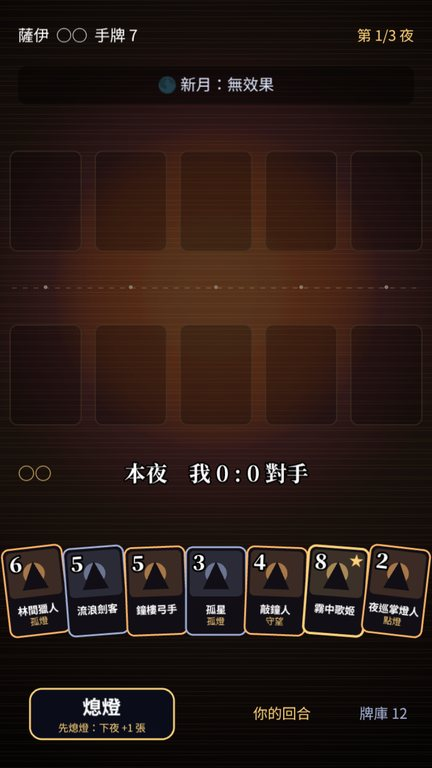
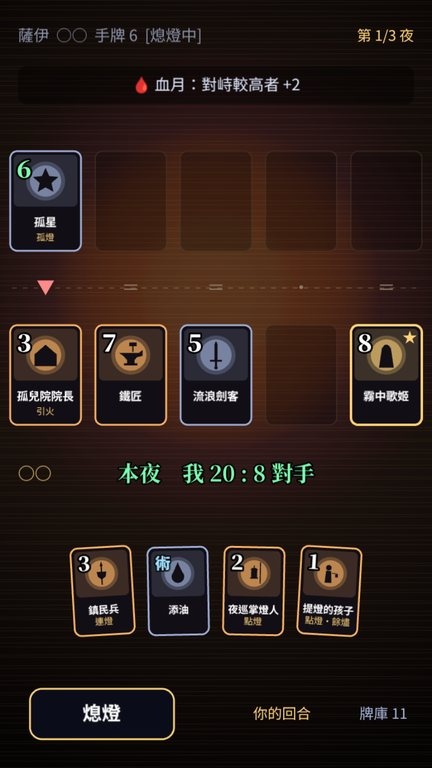
docs(readme): 燼牌截圖換成對局中段（新紋章）
Claude-Session: https://claude.ai/code/session_01CdVfHb8HbssYT6LdfkPPuE

diff --git a/docs/NEXT.md b/docs/NEXT.md
@@ -5,7 +5,7 @@
 > 除錯入口：`?debug&chapter=2|3|4|5&scene=Map`（建立前一章已完成的新存檔，會覆蓋本機存檔；`&join=serin,liora` 額外加同伴）、`?debug&scene=Battle&enc=boss_starfall_2&party=lian,serin,io&lv=17`、`?scene=Dialogue&script=ch3&node=academy`、`?scene=Cards&match=tourney_dealer`。
 
 1. **截通關存檔的「新的旅程」確認框**（三顆按鈕：二週目／覆蓋／取消；需要有 `ch5_complete` 的存檔，可用機器人通關後的頁面或在 console 設 flag 後 `session.save()`）。勝利畫面已確認（README 10-victory）。
-2. **README 截圖更新**：燼牌那張是空桌（只有手牌），改成對局中段（可呼叫 CardScene 方法出幾張牌，或 `match=liora_intro` 等幾手 AI）；考慮加一張片尾統計（`getScene('Dialogue').rollCredits()`）與勝利畫面。`node scripts/promo.mjs http://localhost:4180/ screenshots/promoN <名稱,...>` 可以只截指定幾張。
+2. **README 截圖更新**：燼牌已換成對局中段（新紋章，`screenshots/cards.mjs` 寫法：等 `canAct()` 後 `act(playsFor(i)[0])`）；可再加一張片尾統計（`getScene('Dialogue').rollCredits()`）。燼牌紋章在小卡上偏小（左上點數會擋到），可微調 `drawEmblem` 半徑/位置。`node scripts/promo.mjs http://localhost:4180/ screenshots/promoN <名稱,...>` 可以只截指定幾張。
 3. **燼牌對局手感**：拖曳出牌若在 AI 回合結束 render 時按住會失效（極少見）。（收藏入牌組的勝率影響已模擬：+0～8%，見 D-031，不用調。）
 4. **全員共鳴演出節奏**：fxFinale 約 3 秒，真機前無法確認；可加「點擊加速」。
 5. **羈絆事件覆蓋率檢查**：每位同伴羈絆事件（`src/data/bonds.ts`）在劇情中是否都能觸發；機器人跑一次蒐集 `bond_*` 旗標。
